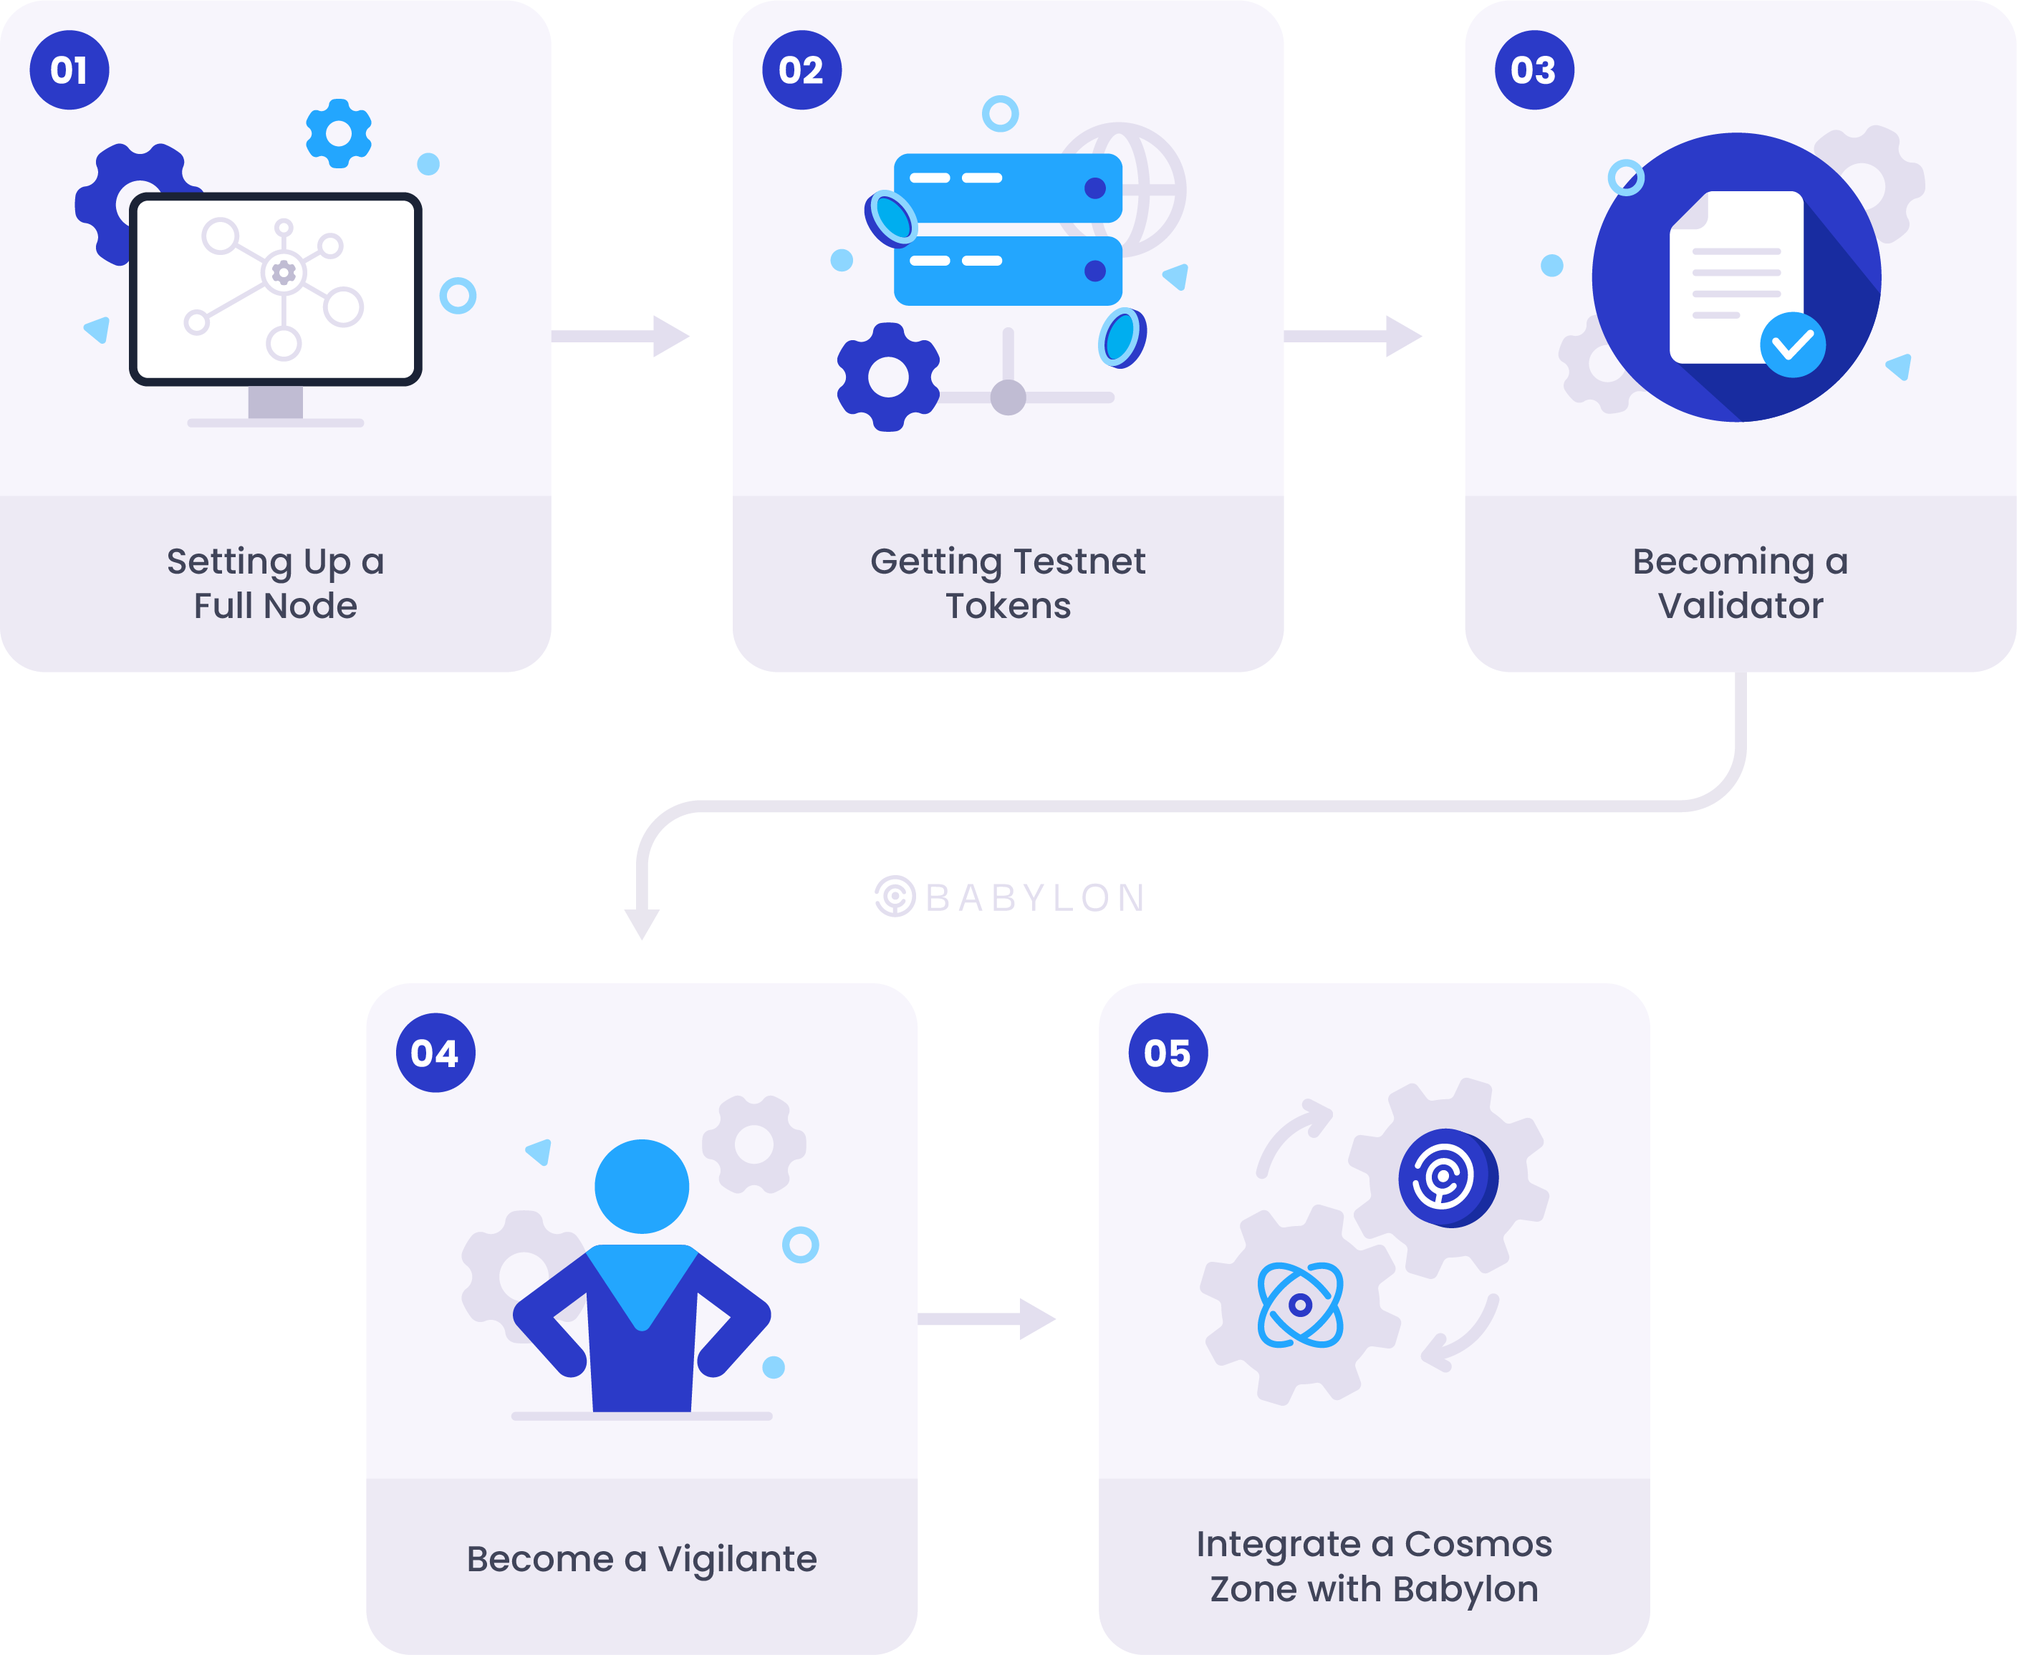
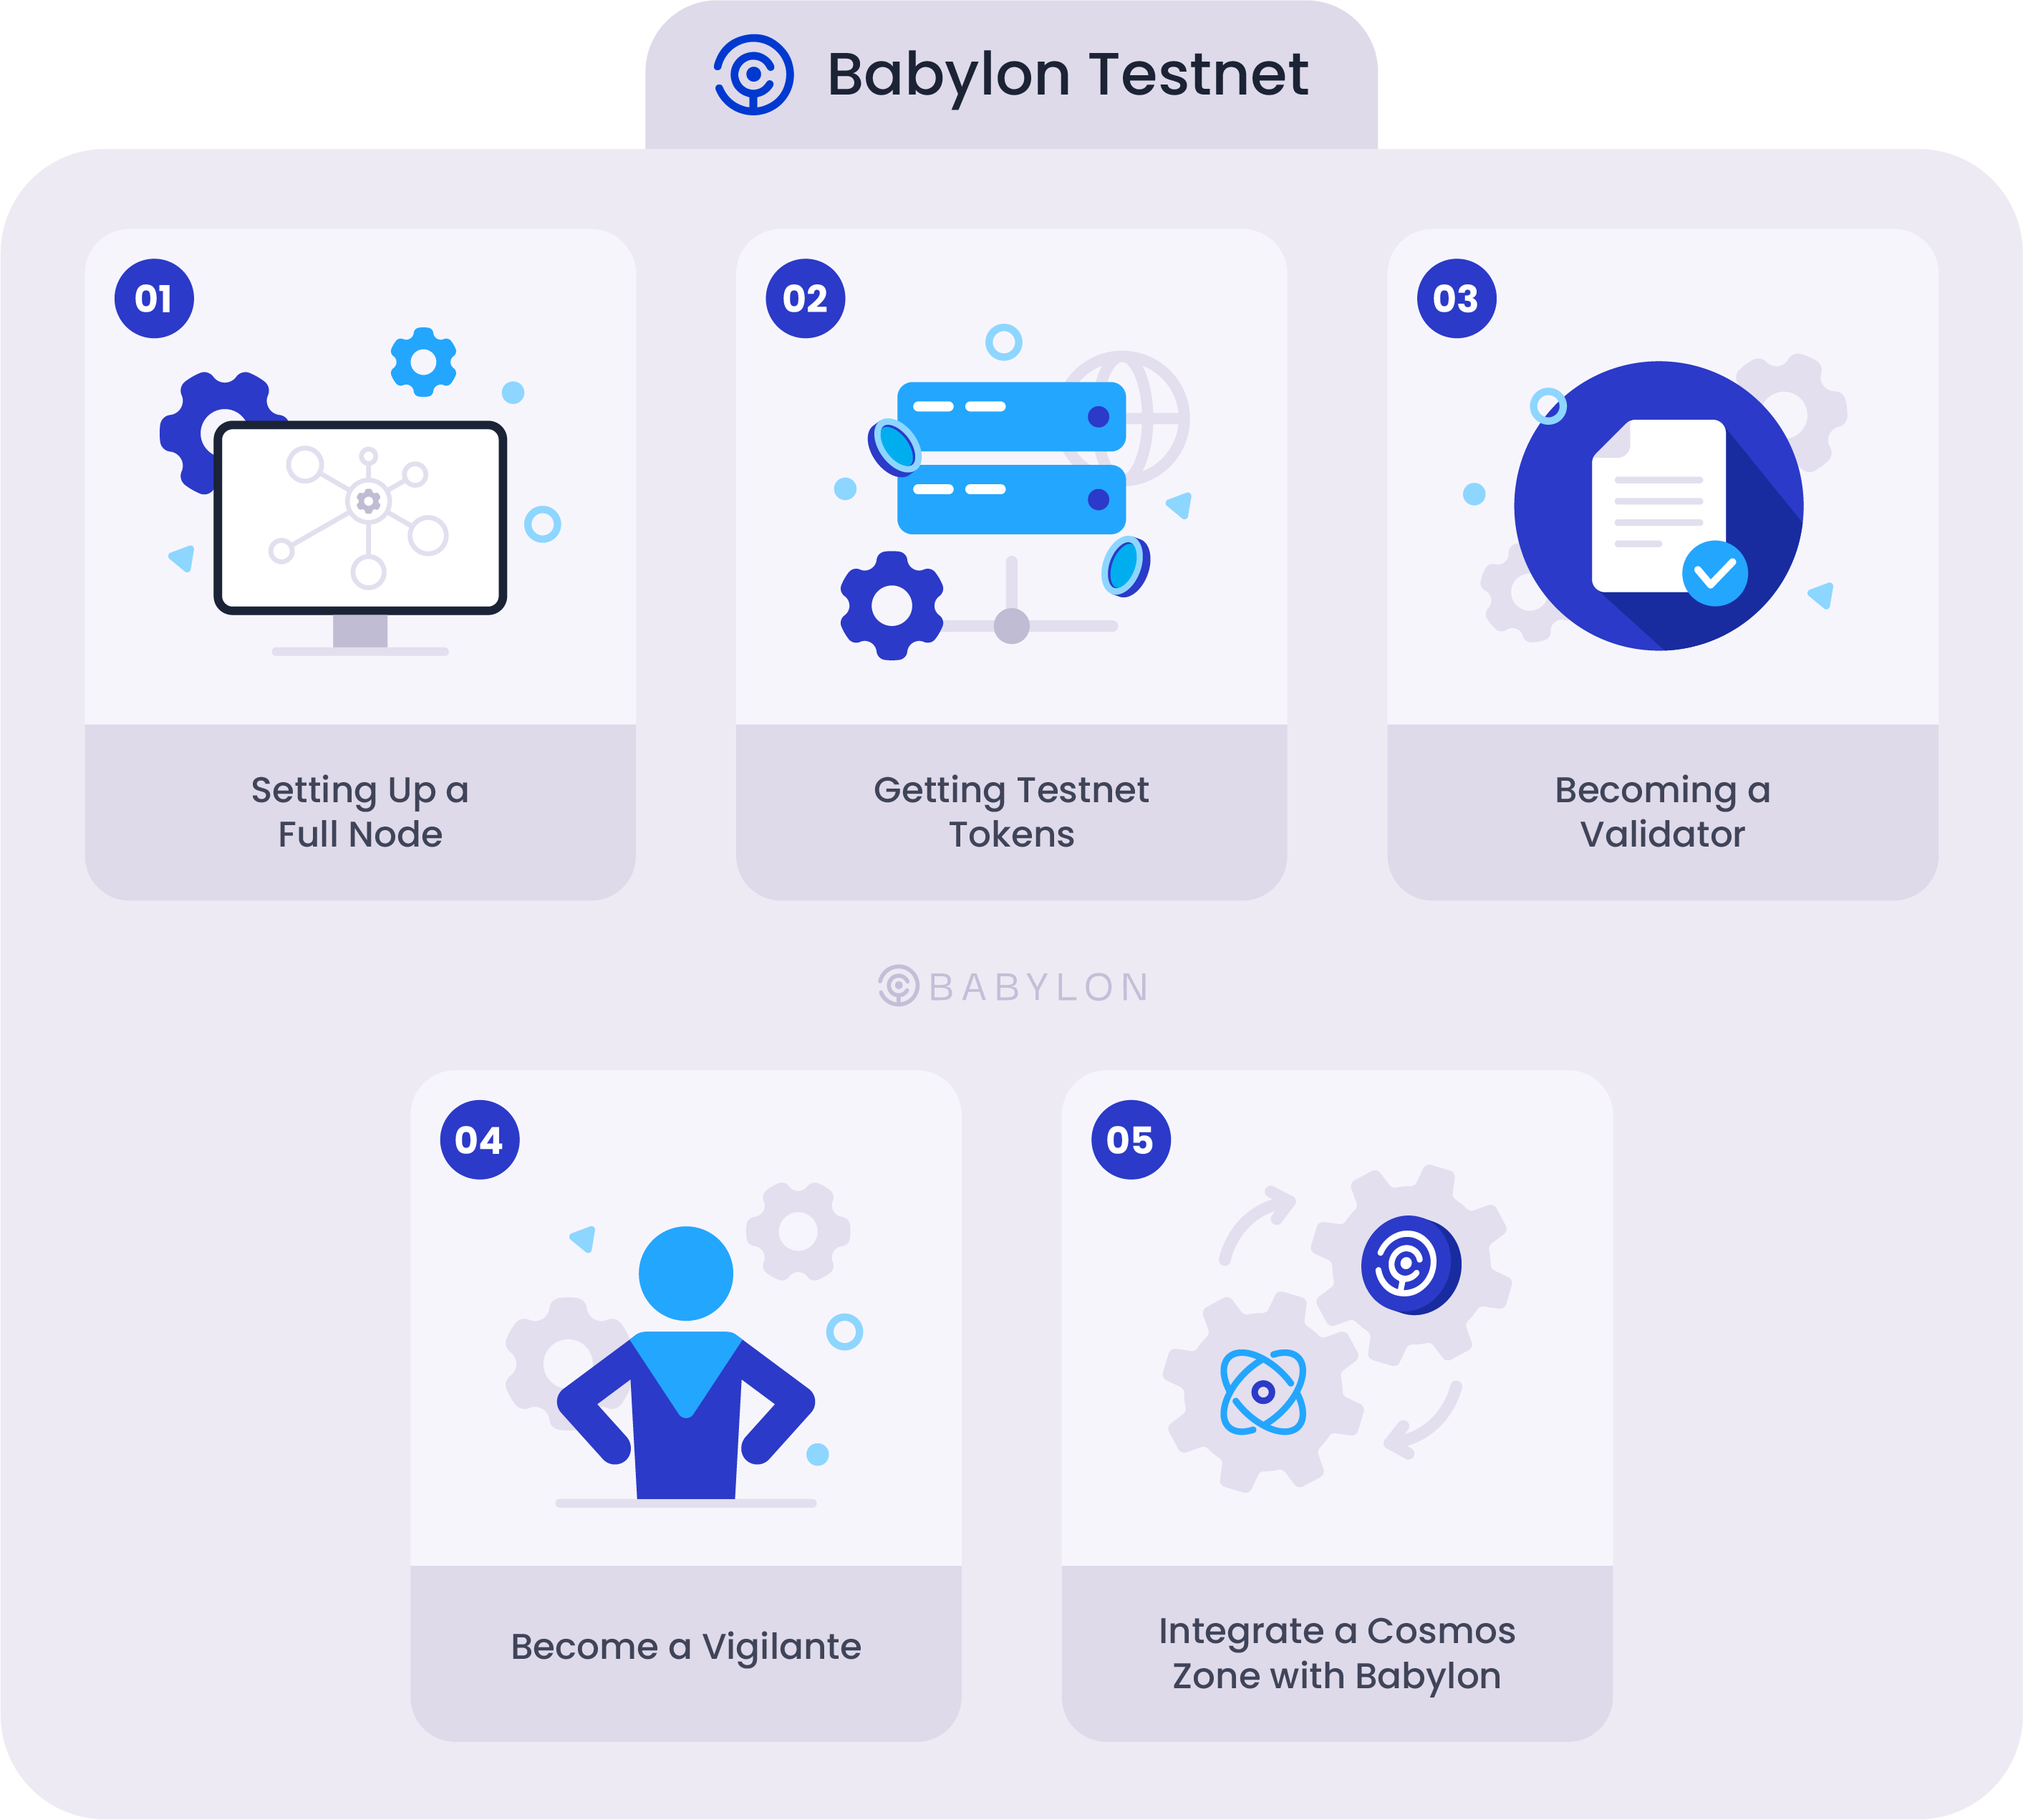
updated, adjusted the testnet images and pagination boxes

diff --git a/src/css/custom.css b/src/css/custom.css
@@ -138,3 +138,8 @@
 .center-homepage {
   justify-content: center;
 }
+img[src*='#left'] {
+  width: 50%;
+  display: block;
+  margin: auto;
+}

diff --git a/docs/testnet/become-vigilante.md b/docs/testnet/become-vigilante.md
@@ -4,8 +4,6 @@ sidebar_label: Becoming a Vigilante
 hide_table_of_contents: true
 ---
 
-import myImageUrl from './images/vigilante.png';
-
 # Becoming a Babylon Vigilante
 
 Learn how to run the Babylon Vigilante program.
@@ -15,9 +13,7 @@ Learn how to run the Babylon Vigilante program.
 Vigilante programs are standalone programs that are run along-side with Babylon nodes.
 People run a vigilante program in three modes, `reporter`, `submitter`, and `monitor`, each responsible to different aspects to the security of the Babylon network.
 
-<div style={{justifyContent: 'center', display: 'flex', marginBottom: '50px'}}>
-    <img style={{width: "1000px"}} src={myImageUrl} alt="becomevigilante" />
-</div>
+![vigilante](./images/vigilante.png#left)
 
 ## Prerequisites
 

diff --git a/docs/testnet/become-validator.md b/docs/testnet/become-validator.md
@@ -3,7 +3,6 @@ id: become-validator
 sidebar_label: Becoming a Validator
 hide_table_of_contents: true
 ---
-import myImageUrl from './images/validator.png';
 
 # Becoming a Validator
 
@@ -13,10 +12,7 @@ Learn how to become a Validator for Babylon.
 
 In this guide we are going to go through the steps for someone
 to become a validator.
-
-<div style={{justifyContent: 'center', display: 'flex', marginBottom: '50px'}}>
-    <img style={{width: "1000px"}} src={myImageUrl} alt="becomevalidator" />
-</div>
+![validator](./images/validator.png#left)
 
 ## Prerequisites
 Having a full node setup and synced by following this [guide](./setup-node.md)

diff --git a/docs/testnet/getting-funds.md b/docs/testnet/getting-funds.md
@@ -3,7 +3,6 @@ id: getting-funds
 sidebar_label: Getting Testnet Tokens
 hide_table_of_contents: true
 ---
-import myImageUrl from './images/GettingTestnetTokens.png';
 
 # Getting Testnet Tokens
 
@@ -13,11 +12,7 @@ Learn how to get testnet tokens for Babylon.
 
 In this guide we will go through how you can create a keyring and request for tokens
 through the Babylon testnet faucet.
-
-<div style={{justifyContent: 'center', display: 'flex', marginBottom: '50px'}}>
-    <img style={{width: "1000px"}} src={myImageUrl} alt="gettingtestnettokens" />
-</div>
-
+![gettokens](./images/GettingTestnetTokens.png#left)
 
 ## 1. Create a Keyring
 

diff --git a/docs/testnet/integrate.md b/docs/testnet/integrate.md
@@ -4,8 +4,6 @@ sidebar_label: Integrating with Babylon
 hide_table_of_contents: true
 ---
 
-import myImageUrl from './images/integrating.png';
-
 # Integrating with Babylon
 
 Learn how to integrate a Cosmos Zone with Babylon.
@@ -34,9 +32,8 @@ It gives us the following advantages:
 
 ## Running a Babylon IBC relayer
 
-<div style={{justifyContent: 'center', display: 'flex', marginBottom: '50px'}}>
-    <img style={{width: "1000px"}} src={myImageUrl} alt="integration" />
-</div>
+![integration](./images/integrating.png#left)
+
 
 Running a Babylon IBC relayer consists of the following steps:
 

diff --git a/docs/testnet/setup-node.md b/docs/testnet/setup-node.md
@@ -3,16 +3,13 @@ id: setup-node
 sidebar_label: Setting Up a Full Node
 hide_table_of_contents: true
 ---
-import myImageUrl from './images/SetNode.png';
 
 # Setting Up a Full Node
 
 Learn how to set up the full node for the Babylon system.
 
 ---
-<div style={{justifyContent: 'center', display: 'flex', marginBottom: '50px'}}>
-    <img style={{width: "750px"}} src={myImageUrl} alt="setupafullnode" />
-</div>
+![setfullnode](./images/setfullnode.png#left)
 
 :::info Note
 

diff --git a/docs/testnet/overview.md b/docs/testnet/overview.md
@@ -4,7 +4,7 @@ sidebar_label: Testnet
 hide_table_of_contents: true
 
 ---
-import myImageUrl from './images/TestNet.png';
+import myImageUrl from './images/testnet.png';
 
 # Testnet
 
